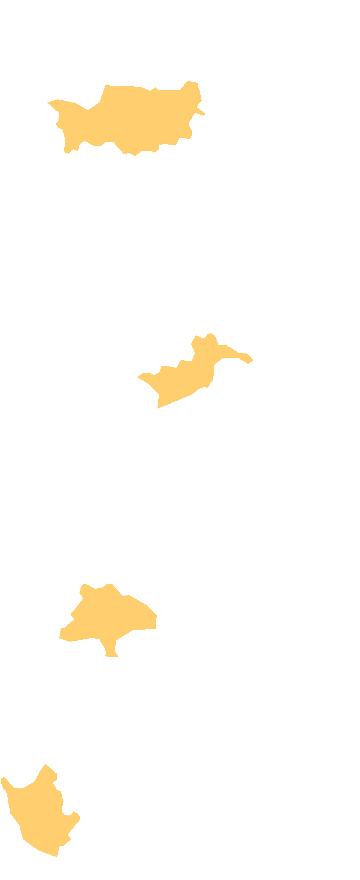
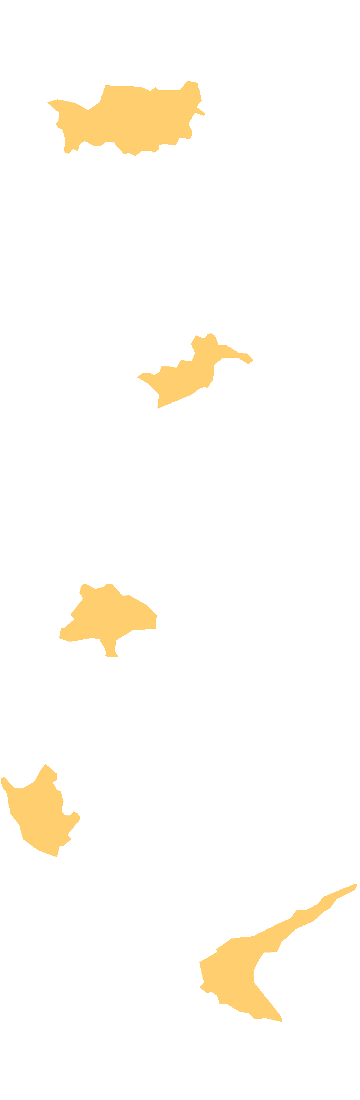
main header and Cyprus map + Famagusta area

diff --git a/src/user/views/main/index.tpl.html b/src/user/views/main/index.tpl.html
@@ -5,7 +5,7 @@
 ?>
 
 <div class="g_12 alpha">
-	<div class="g_5 alpha" style="background: url(/i/map_bg.png) no-repeat; background-position-y: 220px">
+	<div class="g_5 alpha" style="background: url(/i/map_bg.png) no-repeat; background-position-y: -880px">
 	<img src="<?=PATH_WEB_IMG?>map3.png" width="360" height="220" usemap="areasMap" />
 	<map id="areasMap" name="areasMap">
 		<area href="javascript:void(null)" id="NCS" shape="poly" coords="" />
